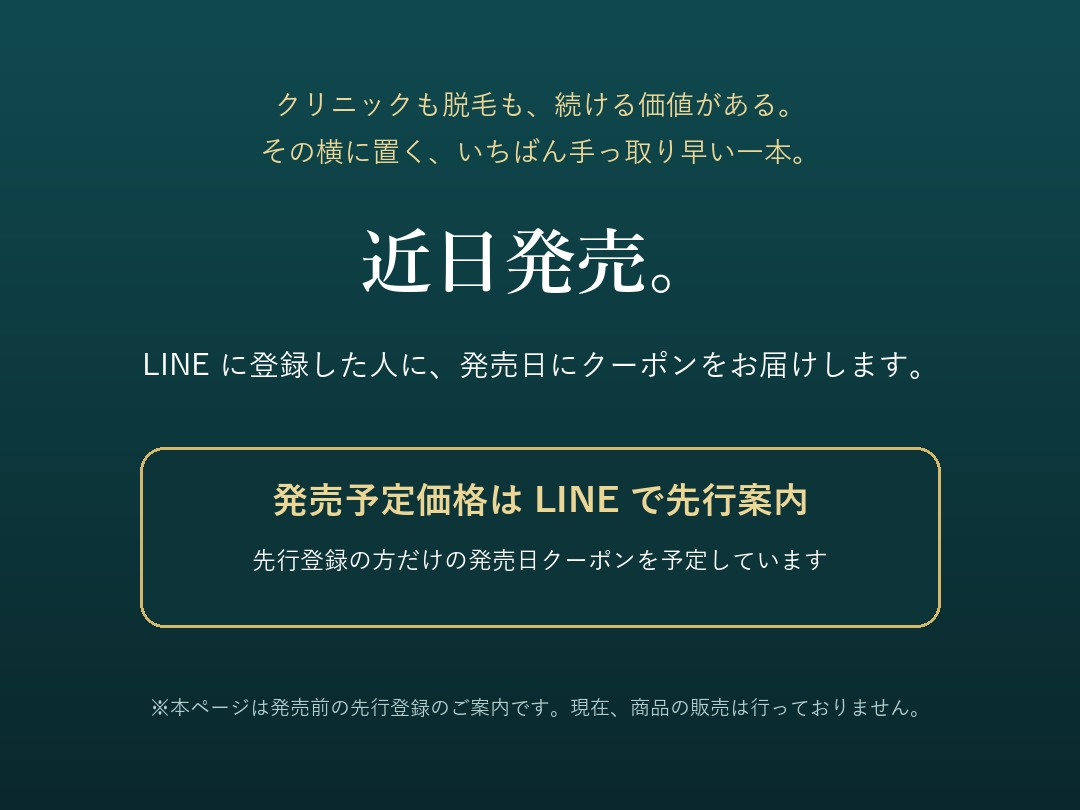
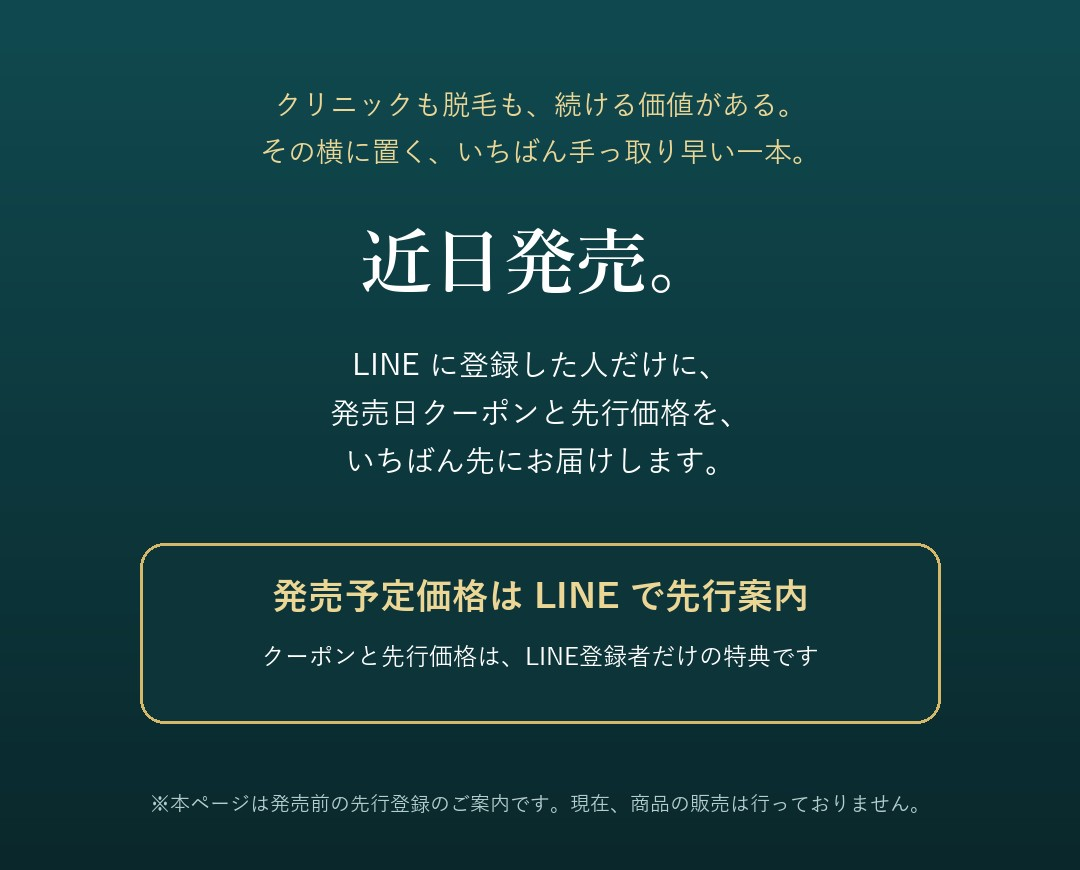
C訴求のLP：LINE追加直前のオファーを具体化、ボタン文言変更、軽さの項目をビルドに統合

diff --git a/c/index.html b/c/index.html
@@ -52,16 +52,16 @@ if(a)fbq('track','Lead',{content_name:'LINE登録',content_category:'mens-c'});}
 </head>
 <body>
 <main>
-<img src="lp01.jpg?v=202609291026" alt="一番上">
-<img src="lp02.jpg?v=202609291026" alt="データ" loading="lazy">
-<img src="lp03.jpg?v=202609291026" alt="悩み" loading="lazy">
-<img src="lp04.jpg?v=202609291026" alt="データ アイロンを使う男は増えている" loading="lazy">
-<img src="lp05.jpg?v=202609291026" alt="ストーリー1" loading="lazy">
-<img src="lp06.jpg?v=202609291026" alt="ストーリー2" loading="lazy">
-<img src="lp07.jpg?v=202609291026" alt="だから作った ヘアアイロン社長のストーリー" loading="lazy">
-<img src="lp08.jpg?v=202609291026" alt="強み1 ひと流しで毛流れ" loading="lazy">
-<img src="lp09.jpg?v=202609291026" alt="強み2 3ステップ" loading="lazy">
-<img src="lp10.jpg?v=202609291026" alt="強み3 見せる道具" loading="lazy">
+<img src="lp01.jpg?v=202610040609" alt="一番上">
+<img src="lp02.jpg?v=202610040609" alt="データ" loading="lazy">
+<img src="lp03.jpg?v=202610040609" alt="悩み" loading="lazy">
+<img src="lp04.jpg?v=202610040609" alt="データ アイロンを使う男は増えている" loading="lazy">
+<img src="lp05.jpg?v=202610040609" alt="ストーリー1" loading="lazy">
+<img src="lp06.jpg?v=202610040609" alt="ストーリー2" loading="lazy">
+<img src="lp07.jpg?v=202610040609" alt="だから作った ヘアアイロン社長のストーリー" loading="lazy">
+<img src="lp08.jpg?v=202610040609" alt="強み1 ひと流しで毛流れ" loading="lazy">
+<img src="lp09.jpg?v=202610040609" alt="強み2 3ステップ" loading="lazy">
+<img src="lp10.jpg?v=202610040609" alt="強み3 見せる道具" loading="lazy">
 <section class="weight-story">
   <h2>軽さも、狙って作った。</h2>
   <p class="lead">重い方が、高級に見えるのは分かっていました。それでも、軽さを選んだ理由があります。</p>
@@ -75,14 +75,14 @@ if(a)fbq('track','Lead',{content_name:'LINE登録',content_category:'mens-c'});}
   </div>
   <p class="conclusion">前髪や生え際は、皮膚が薄く、繊細な部分。疲れた手で扱う道具じゃ、危ない。<br>だから、軽さにはこだわりました。</p>
 </section>
-<img src="lp11.jpg?v=202609291026" alt="強み4 箱" loading="lazy">
-<img src="lp12.jpg?v=202609291026" alt="細かい作り" loading="lazy">
-<img src="lp13.jpg?v=202609291026" alt="こんな人に" loading="lazy">
-<img src="lp14.jpg?v=202609291026" alt="発売と価格" loading="lazy">
-<img src="lp15.jpg?v=202609291026" alt="なぜ先行登録" loading="lazy">
-<img src="lp16.jpg?v=202609291026" alt="安心して登録するために" loading="lazy">
-<img src="lp17.jpg?v=202609291026" alt="作った人 ヘアアイロン社長" loading="lazy">
-<a href="https://lin.ee/nn4U0M2" class="line-link"><img src="lp18.jpg?v=202609291026" alt="LINE登録" loading="lazy"></a>
+<img src="lp11.jpg?v=202610040609" alt="強み4 箱" loading="lazy">
+<img src="lp12.jpg?v=202610040609" alt="細かい作り" loading="lazy">
+<img src="lp13.jpg?v=202610040609" alt="こんな人に" loading="lazy">
+<img src="lp14.jpg?v=202610040609" alt="発売と価格" loading="lazy">
+<img src="lp15.jpg?v=202610040609" alt="なぜ先行登録" loading="lazy">
+<img src="lp16.jpg?v=202610040609" alt="安心して登録するために" loading="lazy">
+<img src="lp17.jpg?v=202610040609" alt="作った人 ヘアアイロン社長" loading="lazy">
+<a href="https://lin.ee/nn4U0M2" class="line-link"><img src="lp18.jpg?v=202610040609" alt="LINE登録" loading="lazy"></a>
 
 <section class="info">
   <h2>運営者情報</h2>
@@ -111,6 +111,6 @@ if(a)fbq('track','Lead',{content_name:'LINE登録',content_category:'mens-c'});}
 </section>
 
 </main>
-<div class="cta"><a href="https://lin.ee/nn4U0M2" class="line-link">LINEで発売日クーポンを受け取る</a><small>登録無料・いつでも解除OK</small></div>
+<div class="cta"><a href="https://lin.ee/nn4U0M2" class="line-link">LINEで先行価格とクーポンを受け取る</a><small>登録無料・いつでも解除OK</small></div>
 </body>
 </html>
